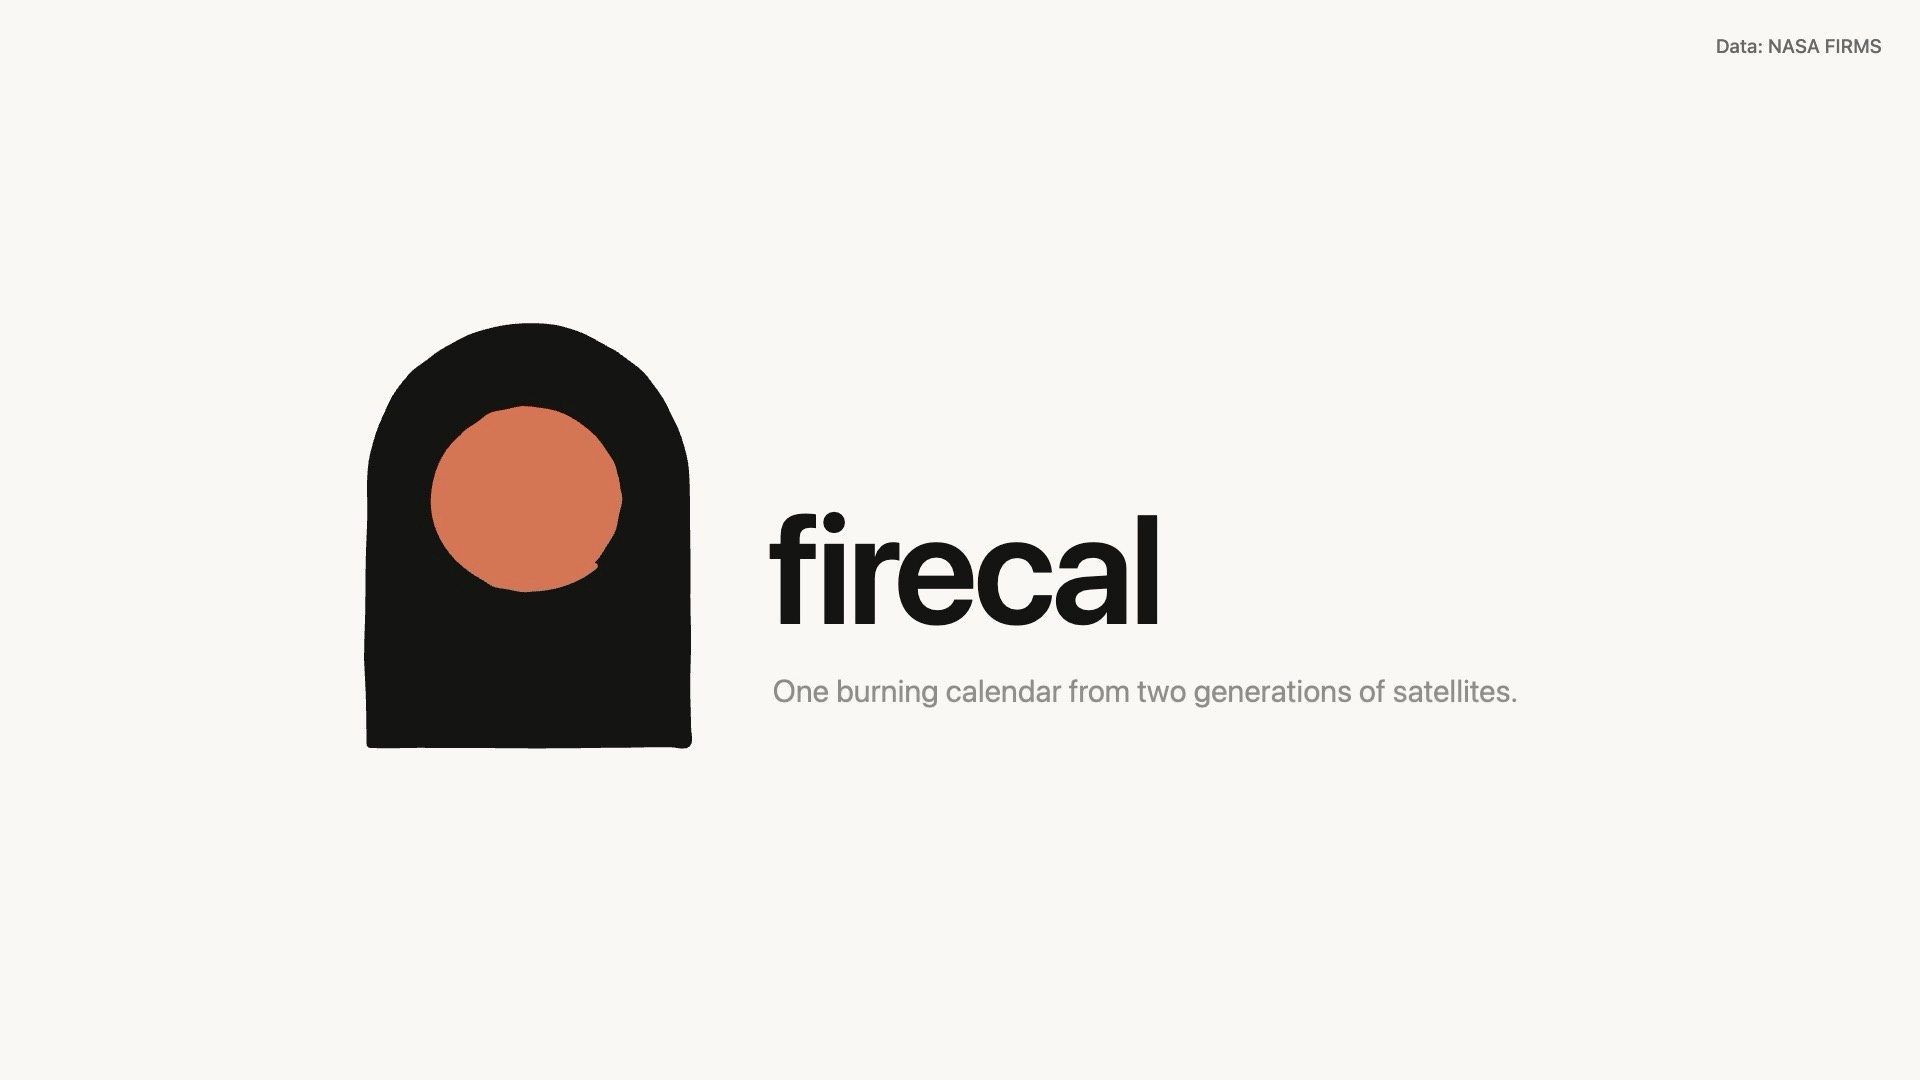
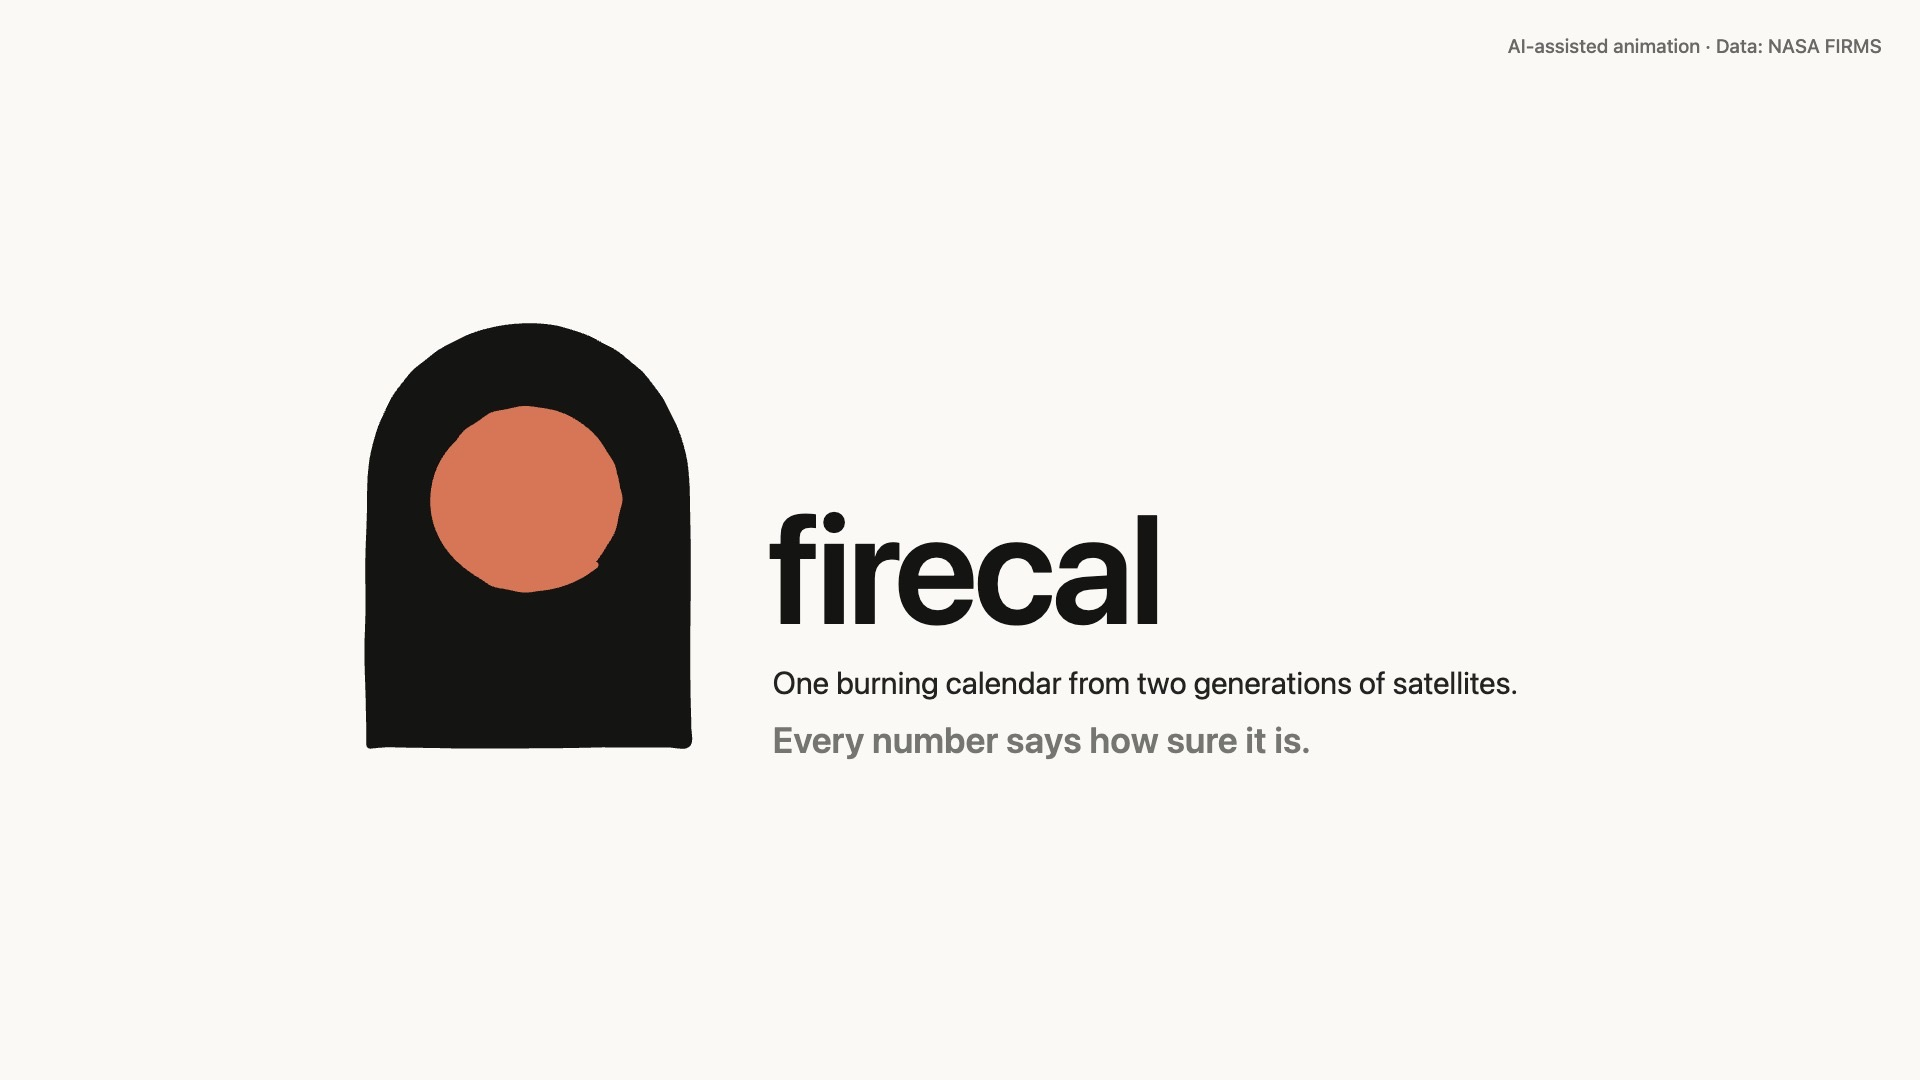
Say in the project where AI was used, as Space Apps requires (#155)
**What:** Add a short "Use of AI" section to the README, and replace the
site's poster with a frame of the re-rendered film that carries its
"AI-assisted animation" mark.

**Why:** The submission form's AI question is only checkboxes and judges
do not see it. The Space Apps rules require AI-written code to be
acknowledged in the project's own descriptive text, and AI-generated
video and images to carry a visible watermark; judges see what is in the
project.

**Issue:** none; asked by Axel.

**Contract:** untouched.

**Ran:** `cargo xtask ready`: verified. The film was re-rendered from
its source with the mark back in the top right corner ("AI-assisted
animation · Data: NASA FIRMS", on every frame), 718 frames, 29.92 s, and
its title and description metadata read back with AVFoundation; it
replaced `firecal-demo.mp4` in the `space-apps-2026` release, checked by
downloading it signed out (SHA-256 5fc49684…, same as the local file).

**Not run:** none

**Evidence:** the poster is the film's frame at 10 s; ten frames from 2
s to 29 s checked by eye, the mark covers nothing.

Changed region(s): [[0.4062, 0.6111, 0.7812, 0.7028], [0.7812, 0.0306, 0.875, 0.0611]]

diff --git a/README.md b/README.md
@@ -23,6 +23,14 @@ One Rust core harmonizes the archive into static tiles and, compiled to WebAssem
 browser, byte for byte the same as the native build. There is no server: the app is a static site that works
 offline. The interface, the site and the film share one hand-drawn style.
 
+## Use of AI
+
+The team designed firecal and wrote its rules; AI coding agents (Claude Code and Codex) wrote and tested most of the
+code and documentation under them: the Rust pipeline and core, the app, the site, and the code that draws the demo
+film. Every number on screen and in the film is computed by that code from NASA FIRMS data; nothing is invented. The
+film and its poster are drawn as SVG by that code, with no image-generation model, and carry an "AI-assisted
+animation" mark; the film's metadata says the same.
+
 ## Run it
 
 ```
